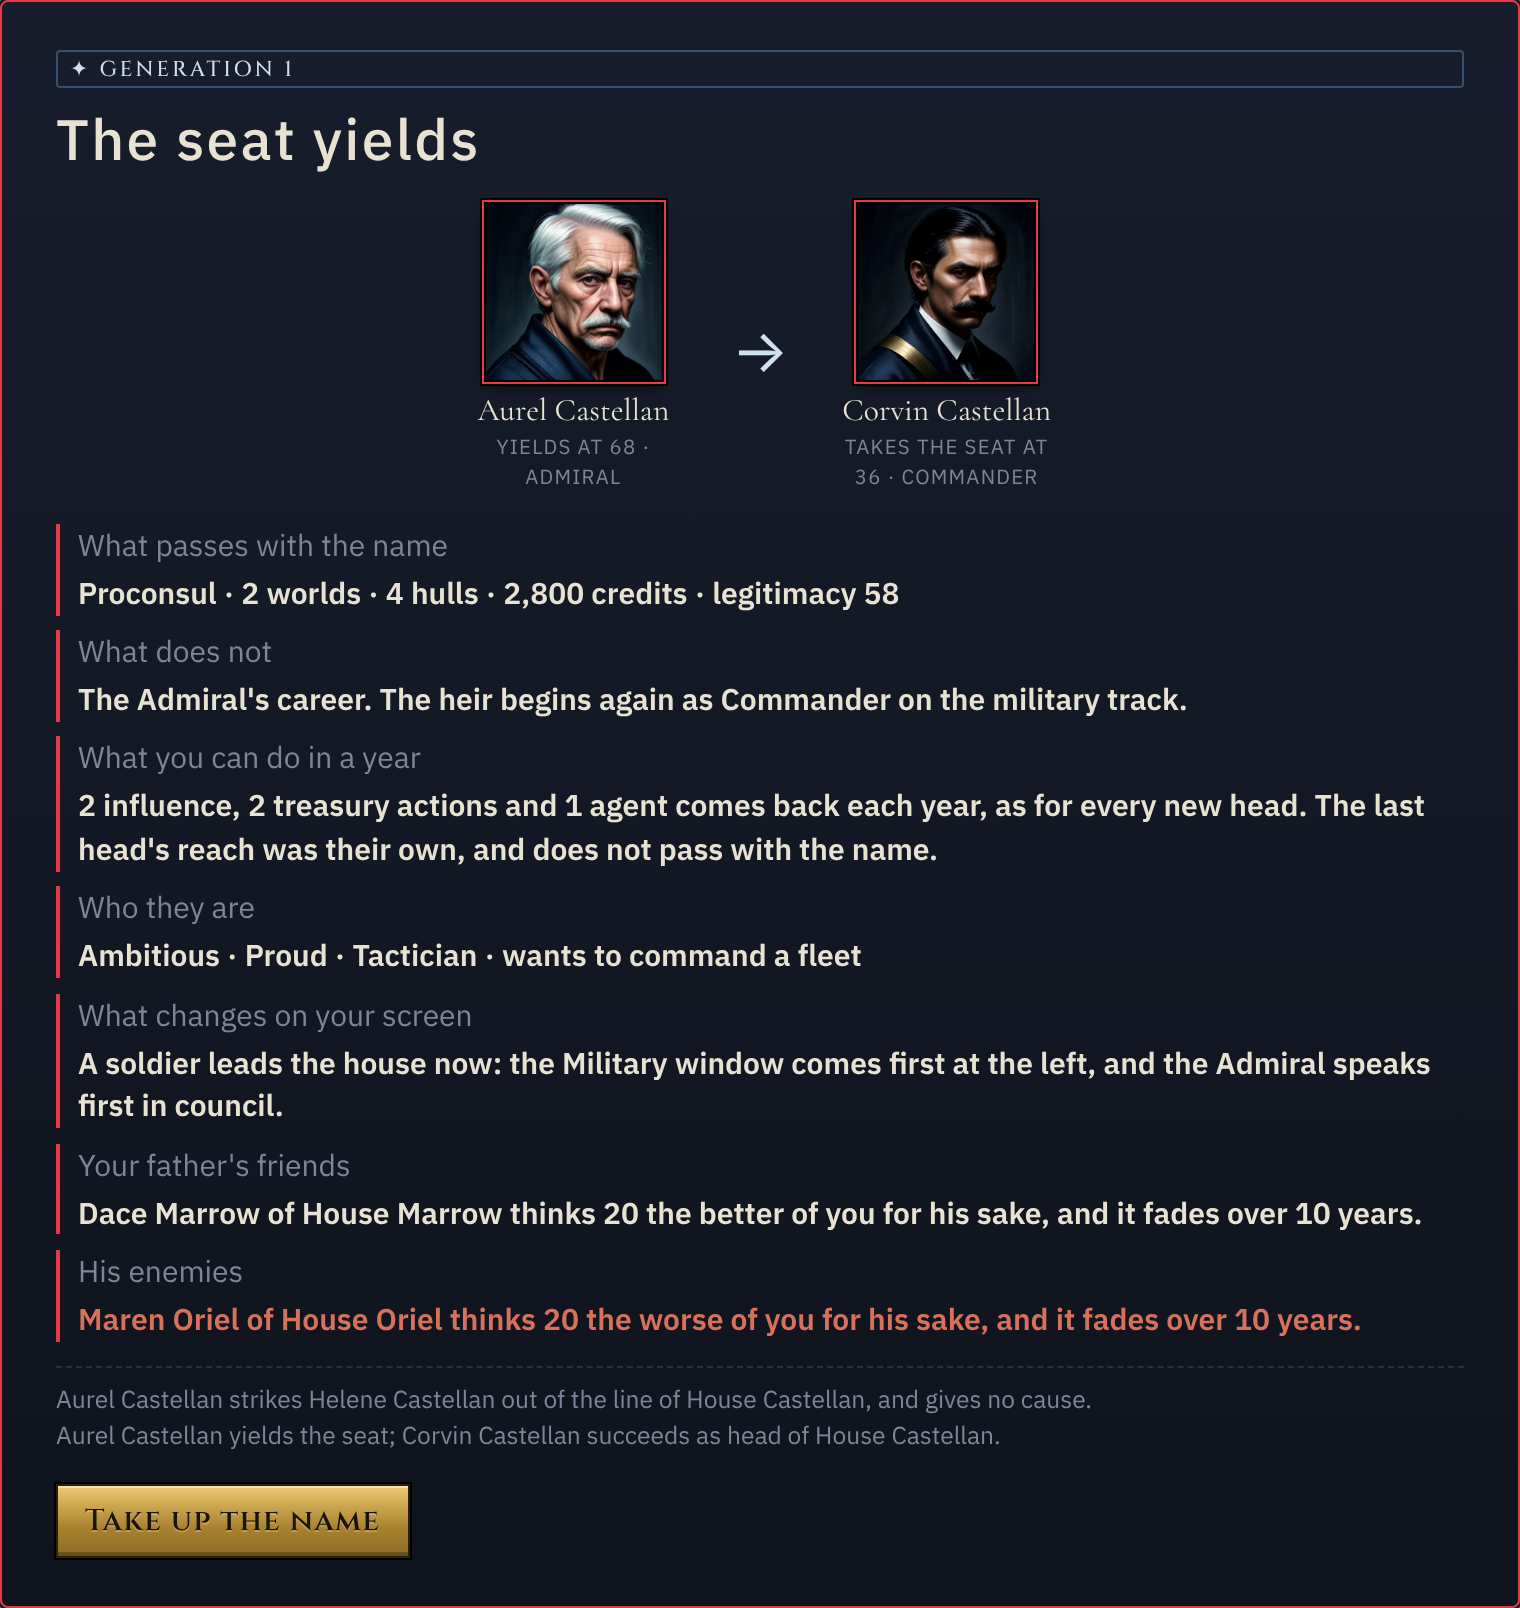
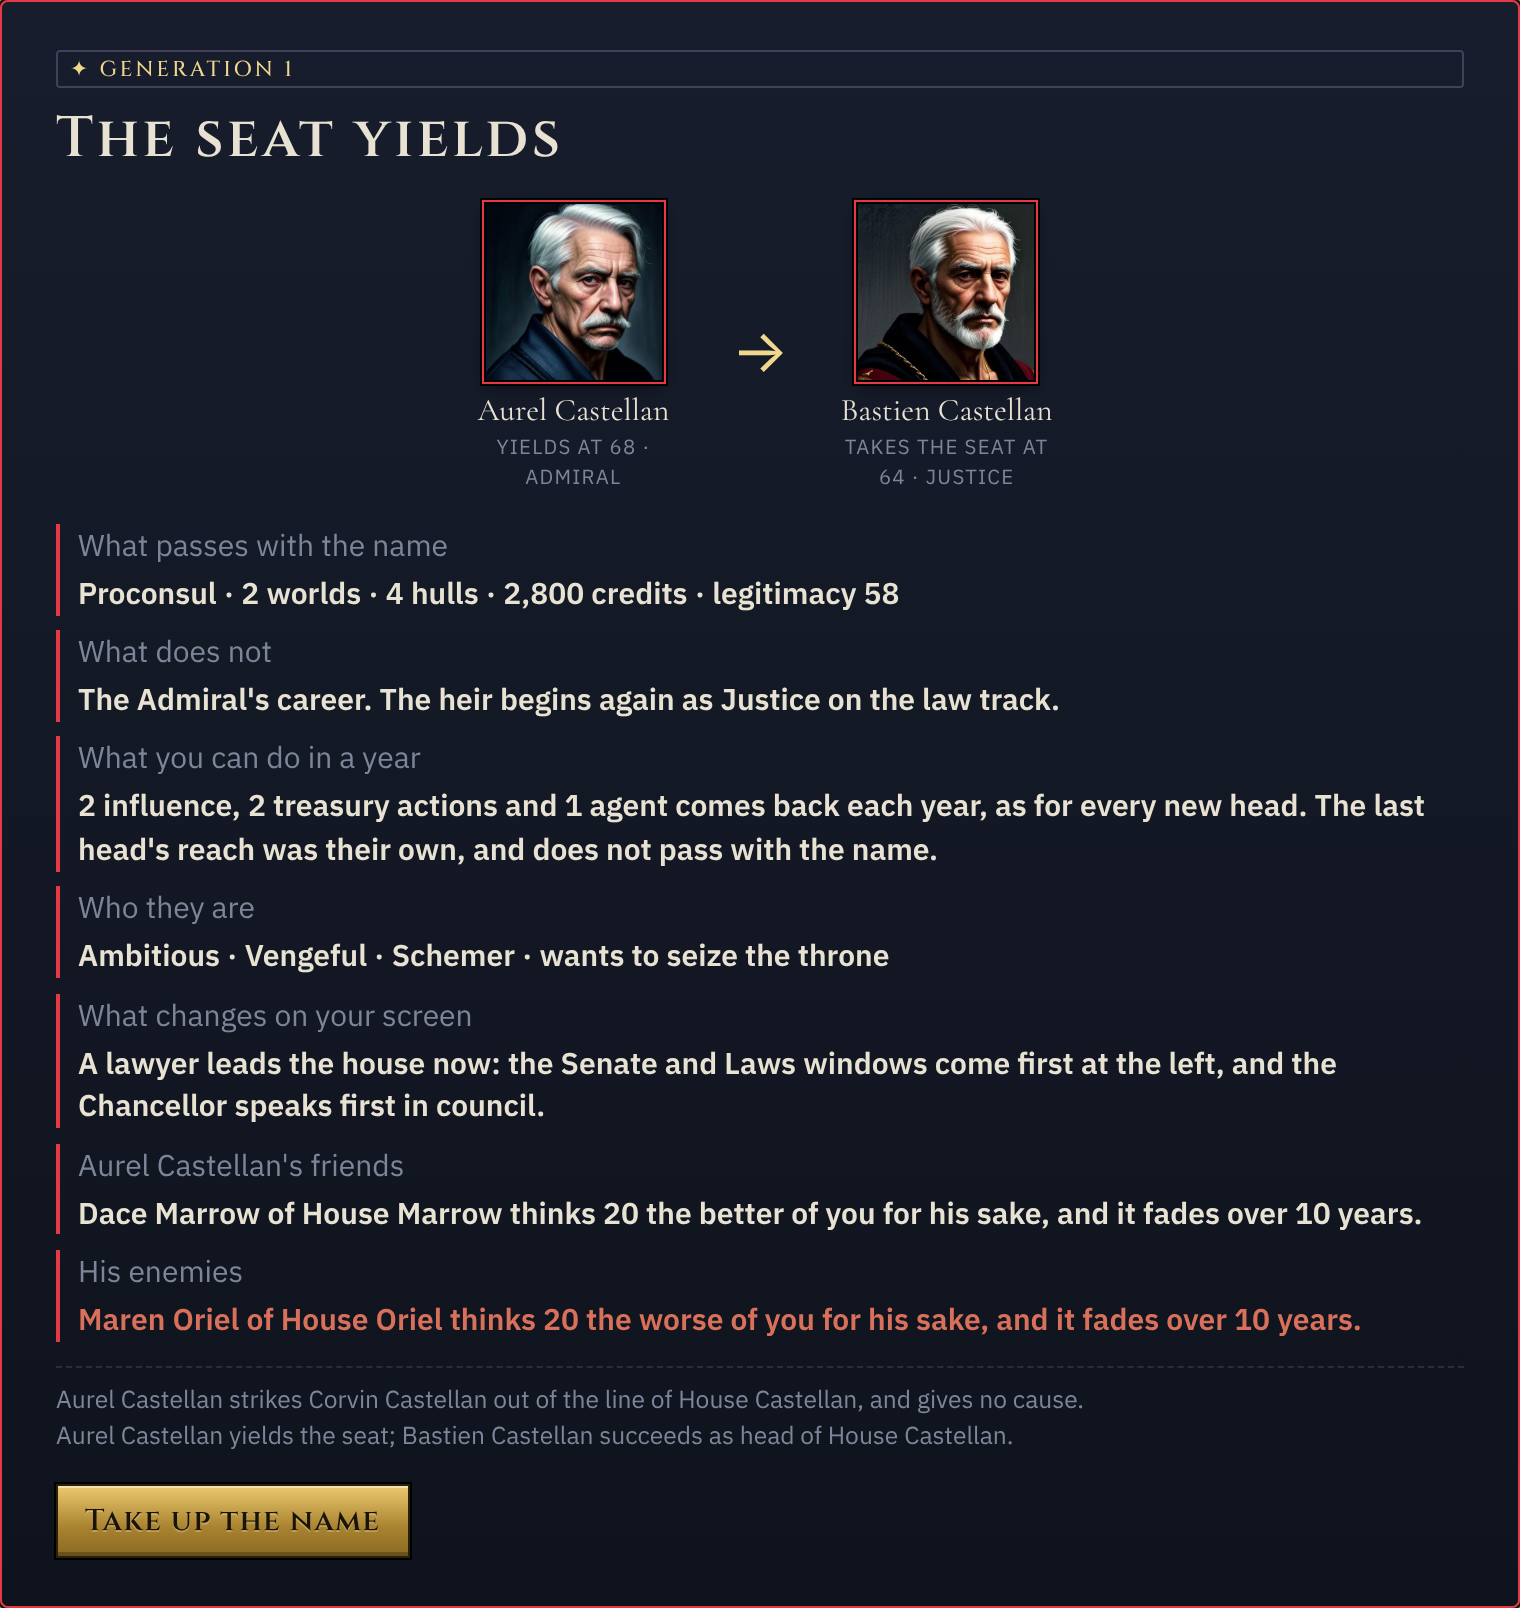
A command by service, friends and enemies handed down, and striking from the line
The first three ideas from docs/IDEAS_FROM_MODS.md, built, reviewed on their own and
again where they meet, and measured:

- A command by service (docs/MILITARY.md): legates named by a consul, the Admiral of the
  Reach or the holder of emergency powers; officers lent to a house at war; commands
  sought. The scripted general now commands a fleet in 22 of 24 games (15 before).
  GAPS Q15a and R1a closed.
- The heir takes up the old head's friends and enemies (docs/LIFE.md), shown on the
  succession screen and itemised on a profile.
- A head strikes a relative from the line or casts them out, and a child put out with
  no cause sues that the will was undutiful (docs/HOUSEHOLD.md). GAPS R18a closed.

The review after the merge found 22 faults where the three meet, all mended with tests.
The soak offers the new commands, a browser check drives the screens, regard figures on
the Dynasty, House and Academy windows use the true minus sign, and M11 is mapped (the
starts write spouses who married in as the house's own blood).

Claude-Session: https://claude.ai/code/session_01Bt3ZZQwXj2ymKrxAugQeX5

diff --git a/tools/browser/ck3.js b/tools/browser/ck3.js
@@ -25,9 +25,11 @@ require('fs').mkdirSync(shots, { recursive: true });
   const closeWindows = async () => { for (let i = 0; i < 8; i++) { const had = await page.evaluate(() => { const c = document.querySelector('.win-close') || document.querySelector('.profile-x') || document.querySelector('.overlay .btn.primary'); if (c) c.click(); return !!c; }); if (!had) break; await page.waitForTimeout(150); } };
   const confirm = async () => { await page.waitForTimeout(300); const said = await page.evaluate(() => { const b = document.querySelector('[data-confirm="yes"]'); if (!b) return 'no question was asked'; const q = (b.closest('.confirm-box') || {}).innerText || ''; b.click(); return q.replace(/\s+/g, ' ').slice(0, 400); }); console.log('  asked: ' + said); await page.waitForTimeout(600); const out = await page.evaluate(() => { const o = document.querySelector('[data-outcome-ok]'); const t = o ? (o.closest('.confirm-box') || {}).innerText || '' : ''; if (o) o.click(); return t.replace(/\s+/g, ' ').slice(0, 300); }); if (out) console.log('  outcome: ' + out); await page.waitForTimeout(300); };
   const turnNo = () => page.evaluate(() => { const m = document.body.innerText.match(/Turn (\d+)/); return m ? parseInt(m[1], 10) : -1; });
+  let named = [];
   const succession = async label => {   // the succession screen, if one is up: what it hands down, a picture, and on
     const s = await page.evaluate(() => { const e = document.querySelector('.epilogue.succession'); if (!e) return null; const f = e.querySelector('[data-inherited-friends]'), n = e.querySelector('[data-inherited-enemies]'); return { friends: f ? f.innerText.replace(/\s+/g, ' ') : '', enemies: n ? n.innerText.replace(/\s+/g, ' ') : '', all: e.innerText.replace(/\s+/g, ' ').slice(0, 300) }; });
     if (!s) return false;
+    named = [...(s.friends + ' ' + s.enemies).matchAll(/([A-Z][a-z]+ [A-Z][a-z]+) of (House [A-Z][a-z]+)/g)].map(m => ({ who: m[1], house: m[2] }));
     console.log('succession (' + label + '): ' + suspicious(s.all) + ' · ' + s.all.slice(0, 160)); console.log('  friends handed down: ' + (s.friends || 'none')); console.log('  enemies handed down: ' + (s.enemies || 'none'));
     const el = await page.$('.epilogue.succession'); if (el) { await el.screenshot({ path: shots + '/ck3-succession.png', timeout: 180000 }); console.log('saved ck3-succession.png'); }
     await page.evaluate(() => { const b = [...document.querySelectorAll('.epilogue.succession button')].find(x => x.innerText.startsWith('Take up the name')); if (b) b.click(); }); await page.waitForTimeout(500);
@@ -79,16 +81,16 @@ require('fs').mkdirSync(shots, { recursive: true });
   const profileCheck = async () => {   // a profile that itemises what was handed down, while it is fresh
     if (profiled) return; profiled = true;
     await rail('Houses'); await page.waitForTimeout(900); let found = false;
-    const rows = await page.$$('.standings tbody tr');
-    for (let r = 0; r < Math.min(rows.length, 16) && !found; r++) {
-      await page.evaluate(i => { const x = document.querySelectorAll('.standings tbody tr')[i]; if (x) x.click(); }, r); await page.waitForTimeout(500);
-      const n = await page.evaluate(() => document.querySelectorAll('.portrait.opens').length);
-      for (let i = 0; i < Math.min(n, 8) && !found; i++) {
-        await page.evaluate(k => { const el = document.querySelectorAll('.portrait.opens')[k]; if (el) el.click(); }, i); await page.waitForTimeout(450);
-        const why = await page.evaluate(() => [...document.querySelectorAll('.profile [data-inherited-regard]')].map(e => e.getAttribute('data-inherited-regard') + ': ' + e.innerText.replace(/\s+/g, ' ')));
-        if (why.length) { found = true; console.log('profile of ' + await text('.profile h2') + ': ' + suspicious(why.join(' ')) + ' · ' + why.join(' | ')); await shotOf('.profile', 'ck3-profile-inherited.png'); }
-        await page.evaluate(() => { const x = document.querySelector('.profile-x'); if (x) x.click(); }); await page.waitForTimeout(200);
-      }
+    for (const n of named) {
+      if (found) break;
+      await page.evaluate(h => { const x = [...document.querySelectorAll('.standings tbody tr')].find(r => r.innerText.includes(h)); if (x) x.click(); }, n.house); await page.waitForTimeout(600);
+      const opened = await page.evaluate(who => { const el = [...document.querySelectorAll('.portrait.opens')].find(e => (e.getAttribute('title') || '').startsWith(who)); if (el) el.click(); return !!el; }, n.who);
+      if (!opened) { console.log('  no face of ' + n.who + ' to open on ' + n.house + "'s page"); continue; }
+      await page.waitForTimeout(600);
+      const why = await page.evaluate(() => [...document.querySelectorAll('.profile [data-inherited-regard]')].map(e => e.getAttribute('data-inherited-regard') + ': ' + e.innerText.replace(/\s+/g, ' ')));
+      if (why.length) { found = true; console.log('profile of ' + n.who + ': ' + suspicious(why.join(' ')) + ' · ' + why.join(' | ')); await shotOf('.profile', 'ck3-profile-inherited.png'); }
+      else console.log('  the profile of ' + n.who + ' shows no line handed down');
+      await page.evaluate(() => { const x = document.querySelector('.profile-x'); if (x) x.click(); }); await page.waitForTimeout(200);
     }
     if (!found) console.log('no profile of the first houses\' people shows a regard handed down');
     await closeWindows();

diff --git a/docs/ROADMAP.md b/docs/ROADMAP.md
@@ -17,7 +17,7 @@ deterministic and saves and loads.
 |---|---|
 | Automated tests | 838 |
 | Events with text | 454 in 38 files |
-| Open gaps (docs/GAPS.md) | 200: 59 small, 120 a cycle, 21 several cycles, as `./tools/gaps.sh` counts them on 2026-11-26 (Y1 to Y10 mapped with local law, edicts and the new Acts of the Senate; docs/LAWS_REVIEW.md, section 6; then Y1 closed and Y11 mapped, docs/BREAKAWAY.md; then Q15a, R1a and R18a closed by the first three ideas from docs/IDEAS_FROM_MODS.md, with Q15, R1 and R18 left open for what remains). 118 closed so far |
+| Open gaps (docs/GAPS.md) | 201: 60 small, 120 a cycle, 21 several cycles, as `./tools/gaps.sh` counts them on 2026-11-26 (Y1 to Y10 mapped with local law, edicts and the new Acts of the Senate; docs/LAWS_REVIEW.md, section 6; then Y1 closed and Y11 mapped, docs/BREAKAWAY.md; then Q15a, R1a and R18a closed by the first three ideas from docs/IDEAS_FROM_MODS.md, with Q15, R1 and R18 left open for what remains; and M11 mapped, found by the browser check). 118 closed so far |
 | Starts | 8 on the title screen and a character of your own; 3 hidden (a test fixture, two blank bases) |
 | Galaxy | 50 systems, 69 lanes, 10 regions of the Reach and five beyond the rim (the Vashti Steppe, the Thessaran Shore, the Ardent Concord, the Outer Compact, the Hollow Crown), 31 standing houses and five nations on the map |
 | Laws / estates / parties | 22 / 6 / 4 |

diff --git a/docs/GAPS.md b/docs/GAPS.md
@@ -135,6 +135,7 @@ A rival Caesar is rare on purpose (docs/PROCESS.md). Measured after E4 (a victor
 | M3 | A spouse does nothing: no counsel, no running the house in your absence. | M | |
 | M4 | A spouse stays in their own house. | S | **The owner's:** does a spouse come to live in the house, and which of the two moves? |
 | M5 | No affection outside courtship. | M | |
+| M11 | The starts do not say where a wife or husband who married in was born, so the game takes them for the house's own blood. They stand in the line of succession by age, can be struck from it, and a widow or a son's wife can take the seat before the grandchildren: in the Old Lion, with the eldest son struck out, the seat went from Aurel to his wife Helene and then to Corvin's wife Ysolde (found by the browser check of 2026-11-26). The start files need a house of birth for each spouse, and the line then reads it. | S | M4 |
 
 ## Found by the full QA (docs/QA.md, 2026-11-16)
 
